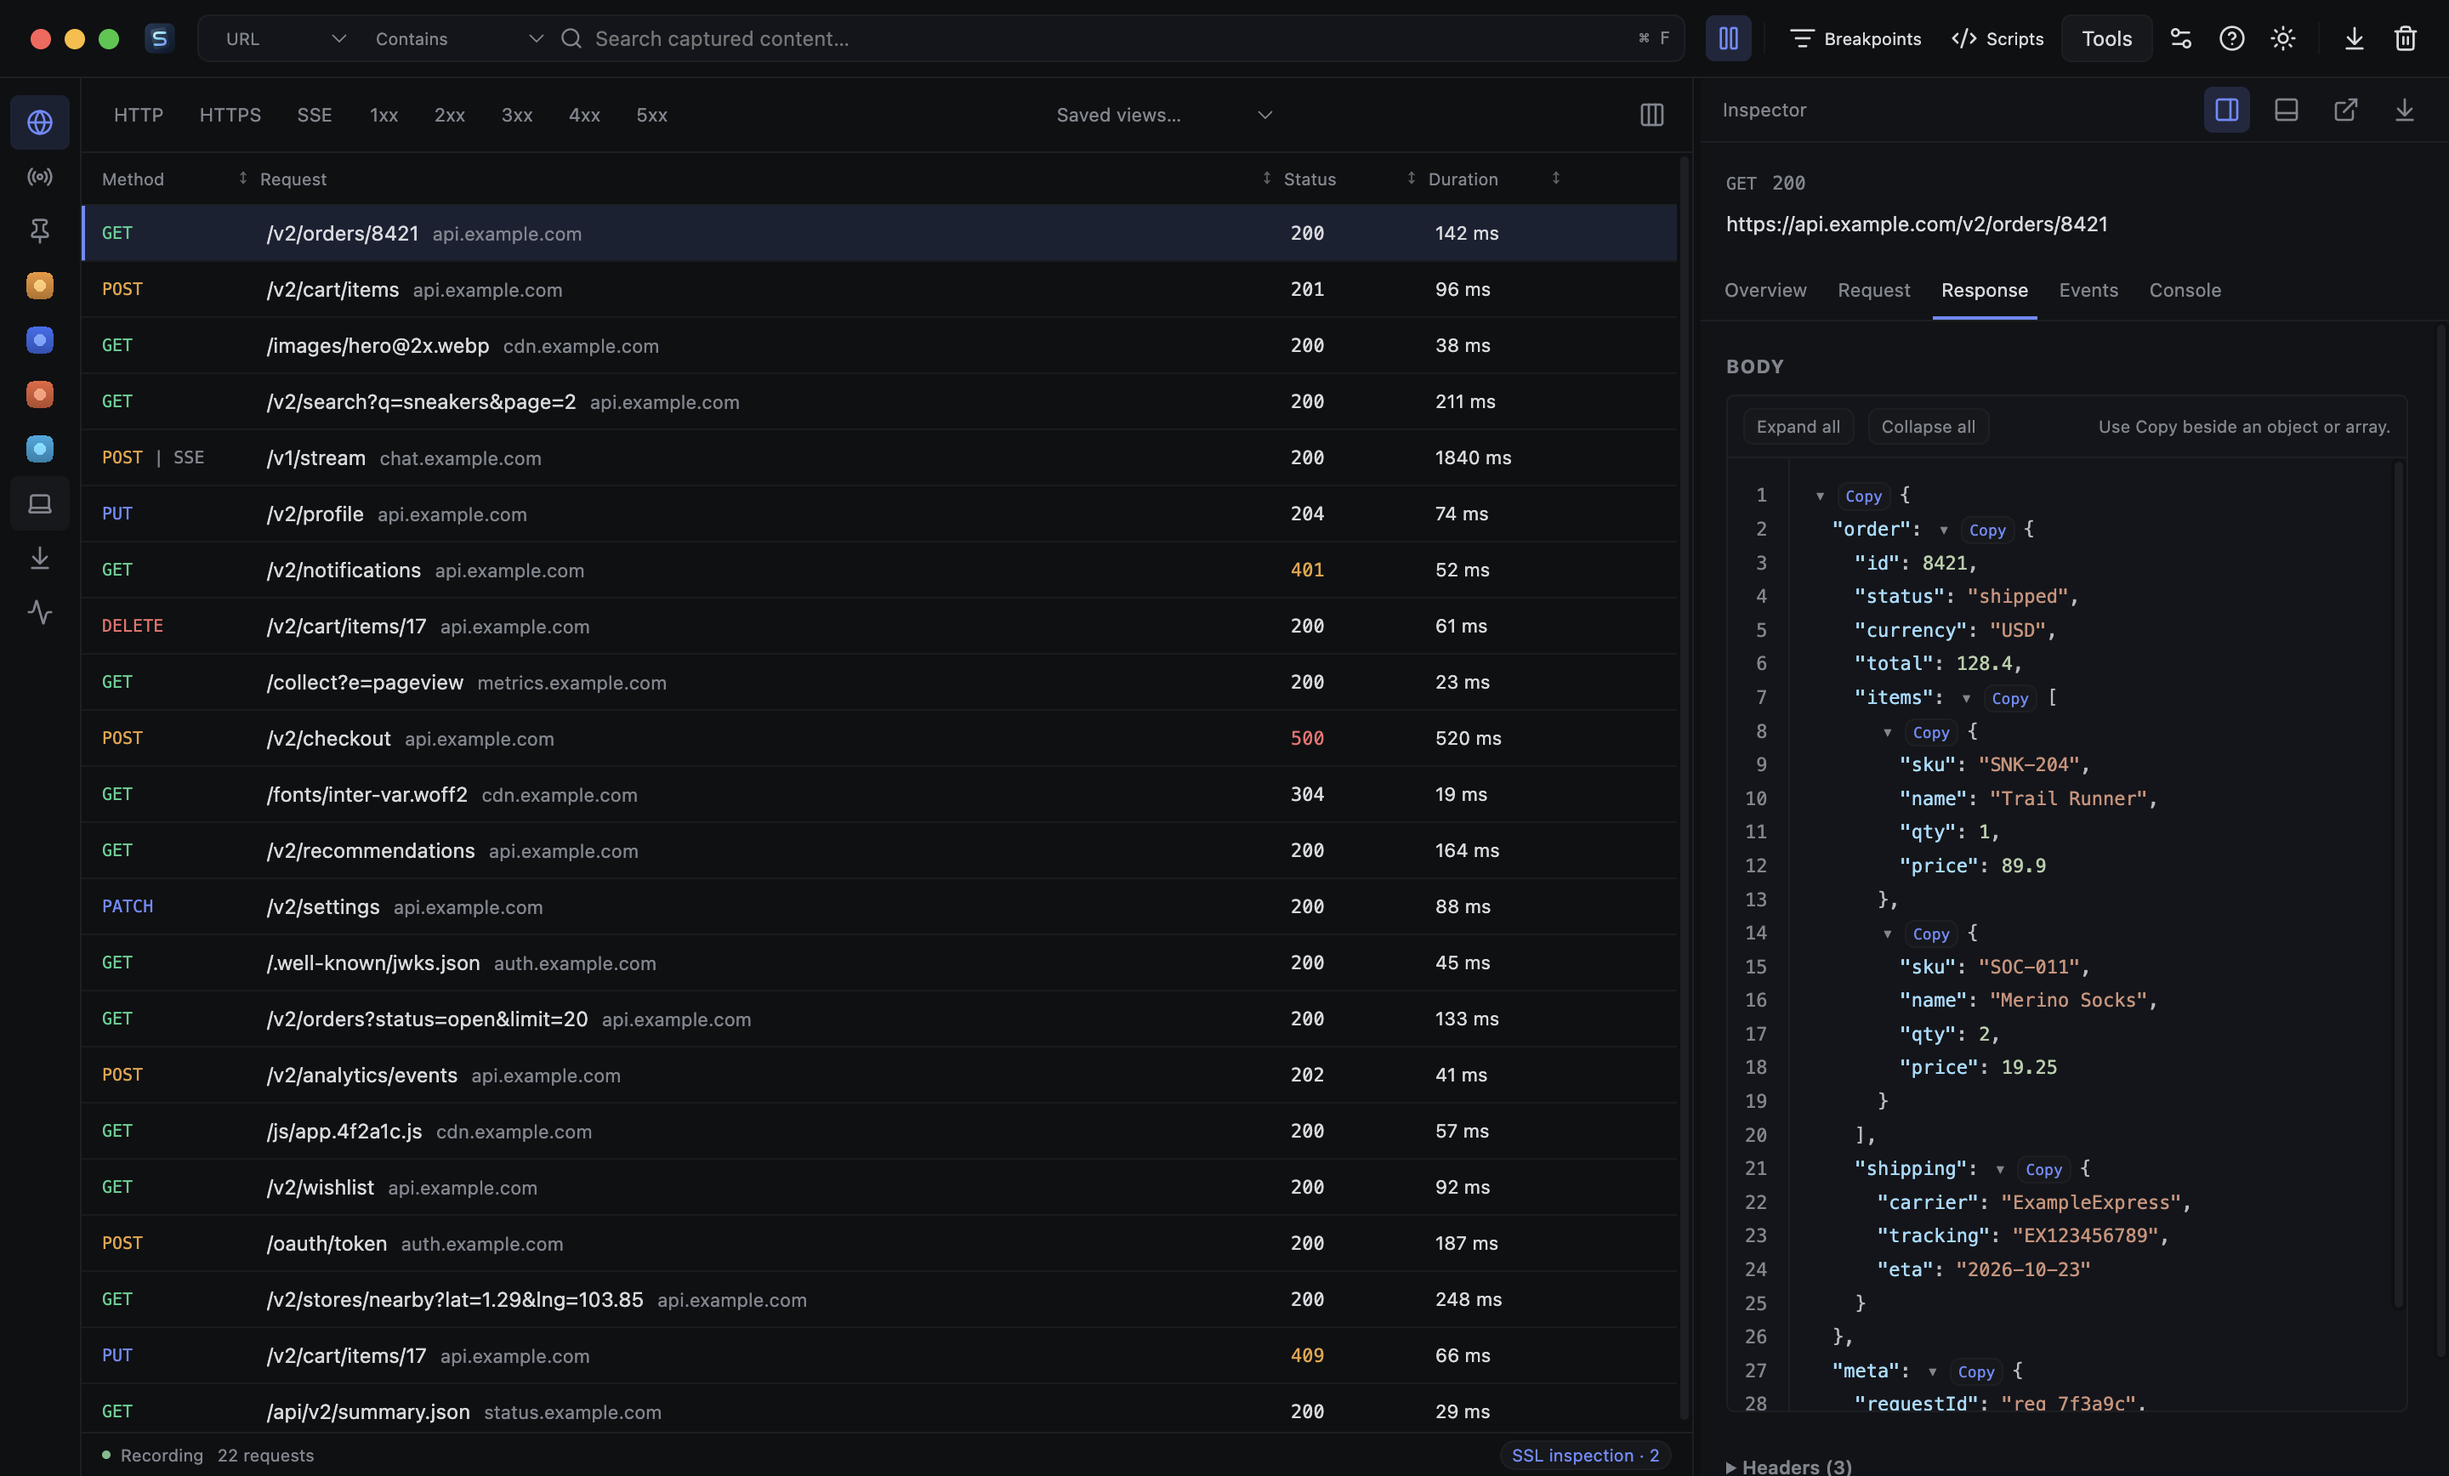
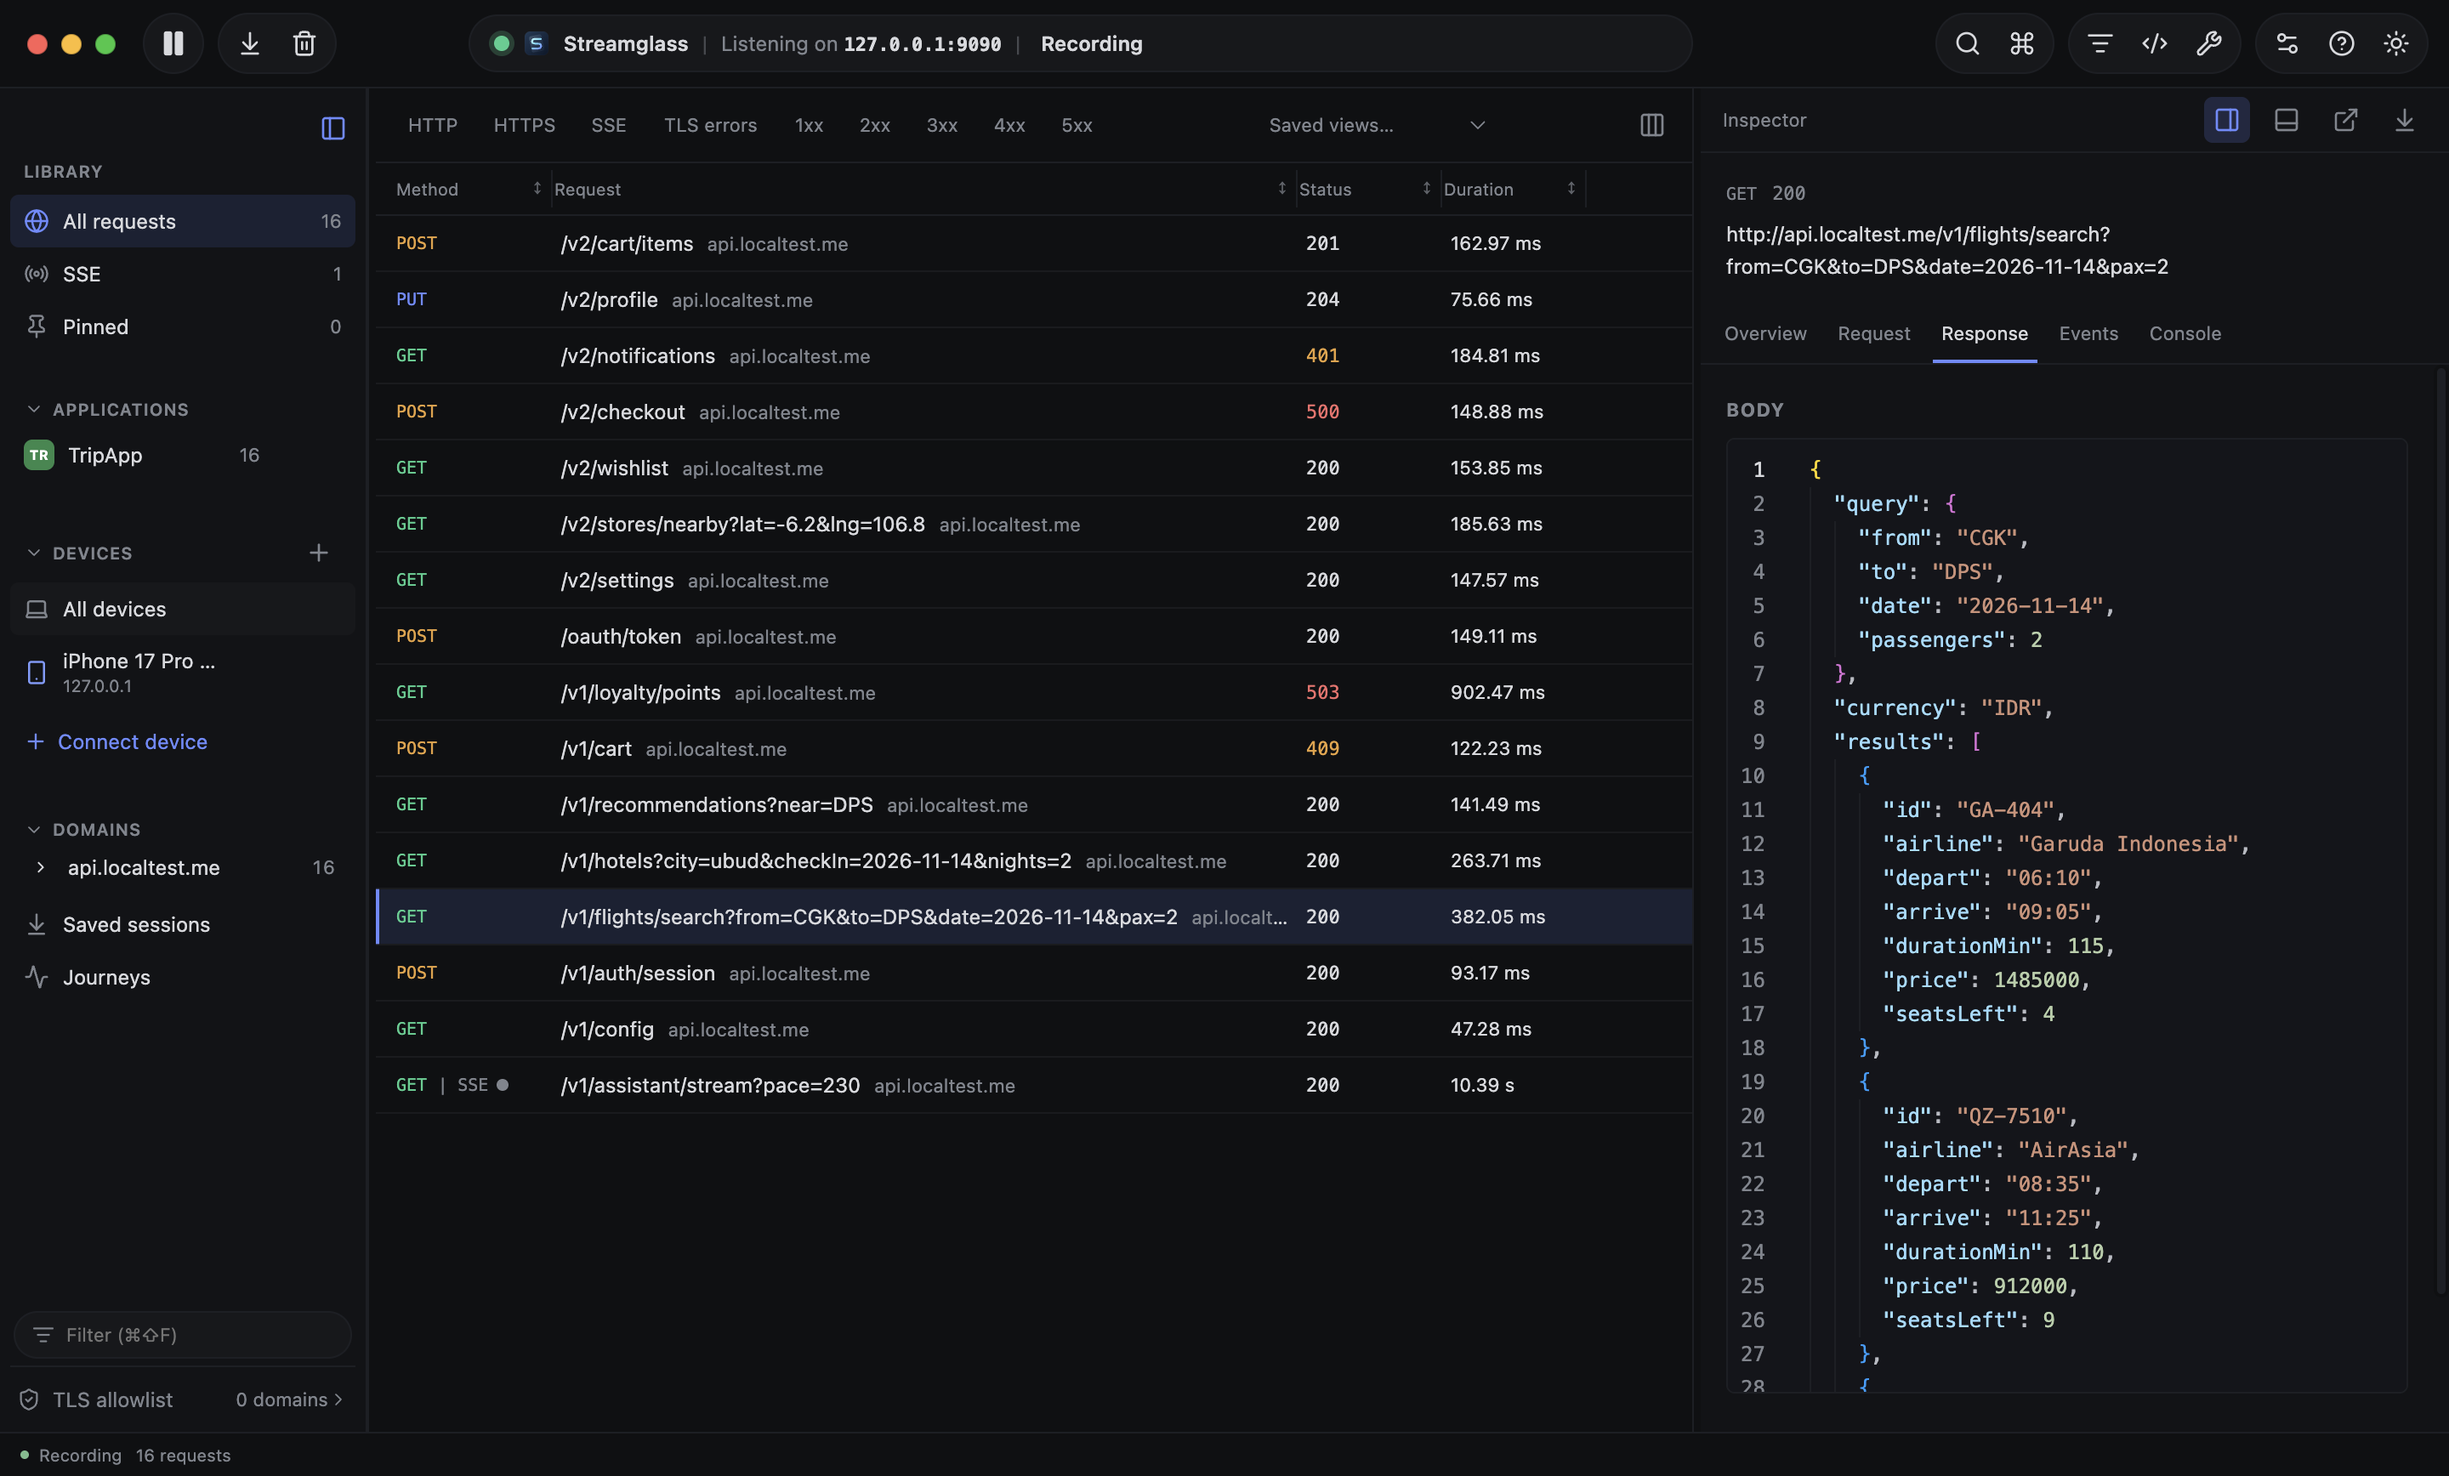
docs: refresh the README screenshot and showcase captures for the new design

diff --git a/README.md b/README.md
@@ -4,7 +4,7 @@
 
 A macOS traffic workbench for HTTP, HTTPS, and server-sent events. See what an app sends, pause a response, edit an event, and let the connection continue.
 
-<p align="center"><img src="docs/images/streamglass.png" alt="Streamglass inspecting a list of requests with a JSON response open in the inspector" width="900"></p>
+<p align="center"><img src="docs/images/streamglass.png" alt="Streamglass with captured requests from an app, a status bar showing where it listens, and a JSON response open in the inspector" width="900"></p>
 
 <p align="center"><sub>Screenshot uses synthetic example data.</sub></p>
 
